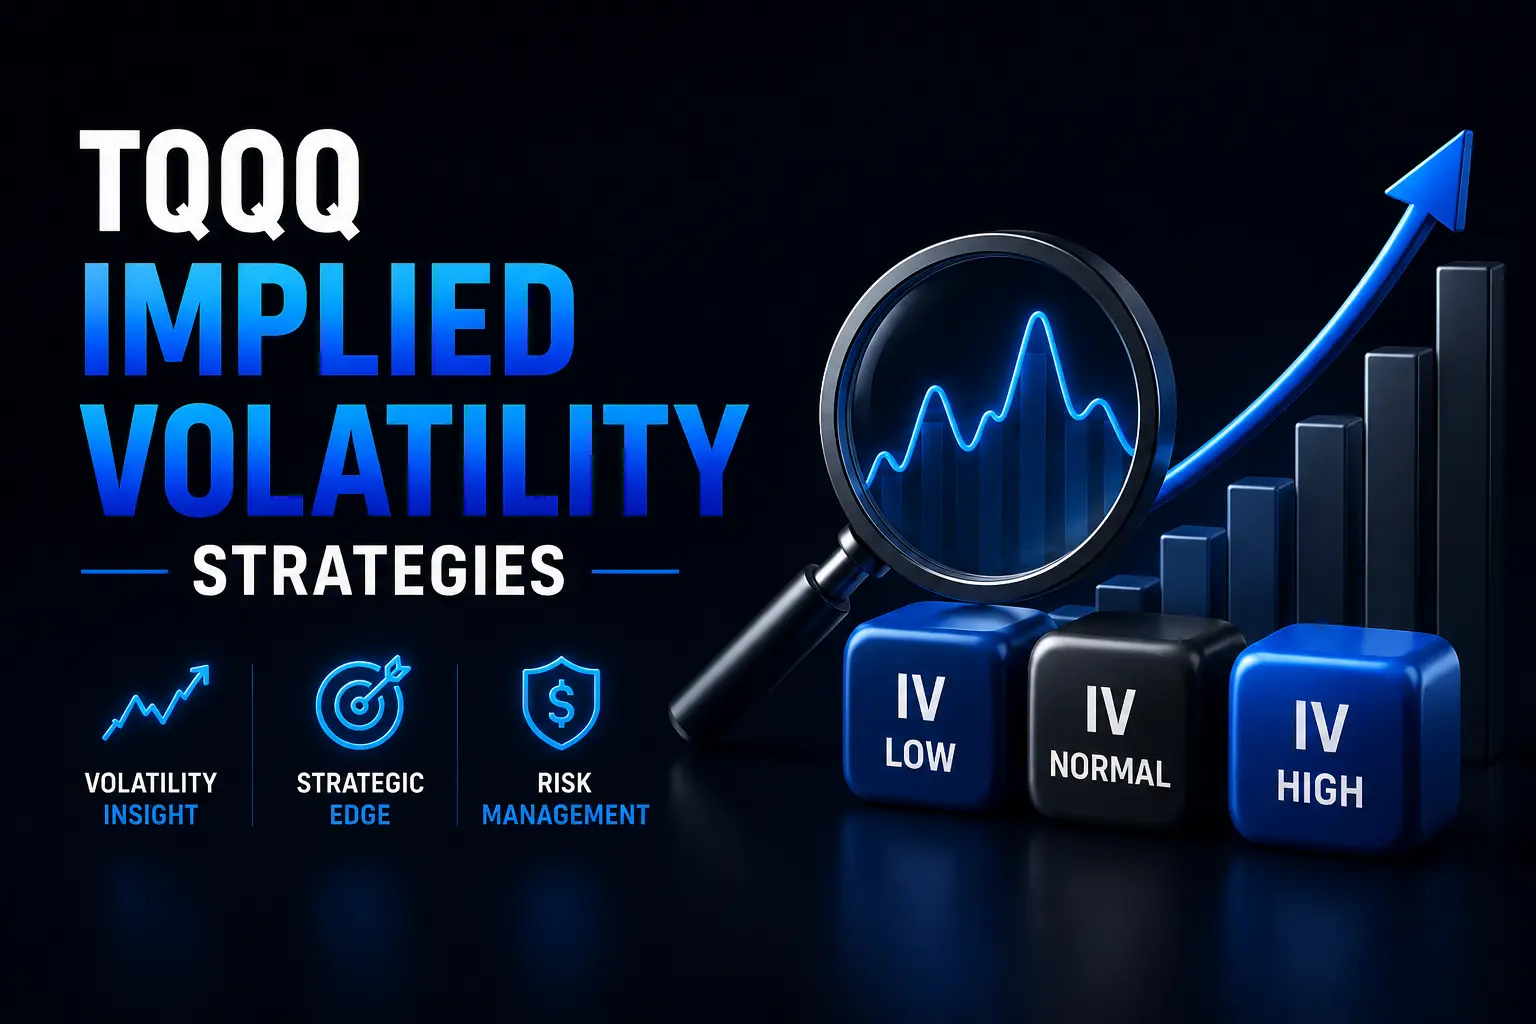
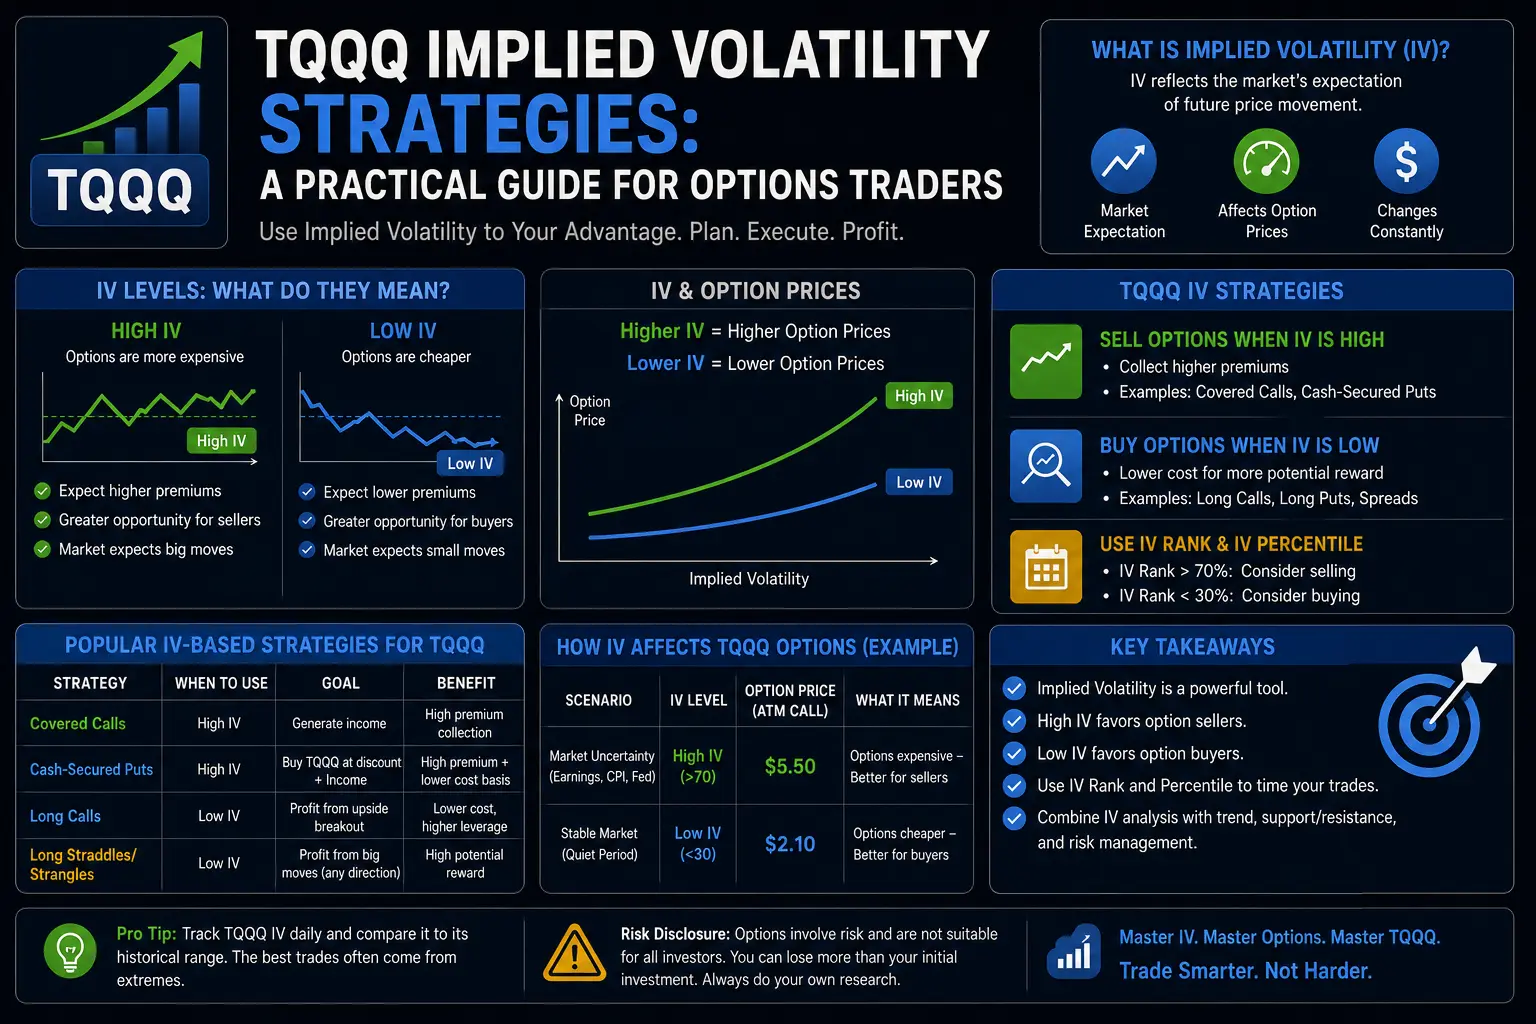
fix images

diff --git a/src/content/strategies/tqqq-covered-calls-cash-secured-puts-strategy.md b/src/content/strategies/tqqq-covered-calls-cash-secured-puts-strategy.md
@@ -6,8 +6,7 @@ pubDate: 2026-05-04
 author: "Global Yields Team"
 categories: ["strategies"]
 heroImage: "/images/blog/options-strategy-diagram.webp"
-heroImageLight: "/images/blog/light/options-strategy-diagram.webp"
-heroImageDark: "/images/blog/tqqq-implied-volatility-strategies.webp"
+
 draft: false
 ---
 